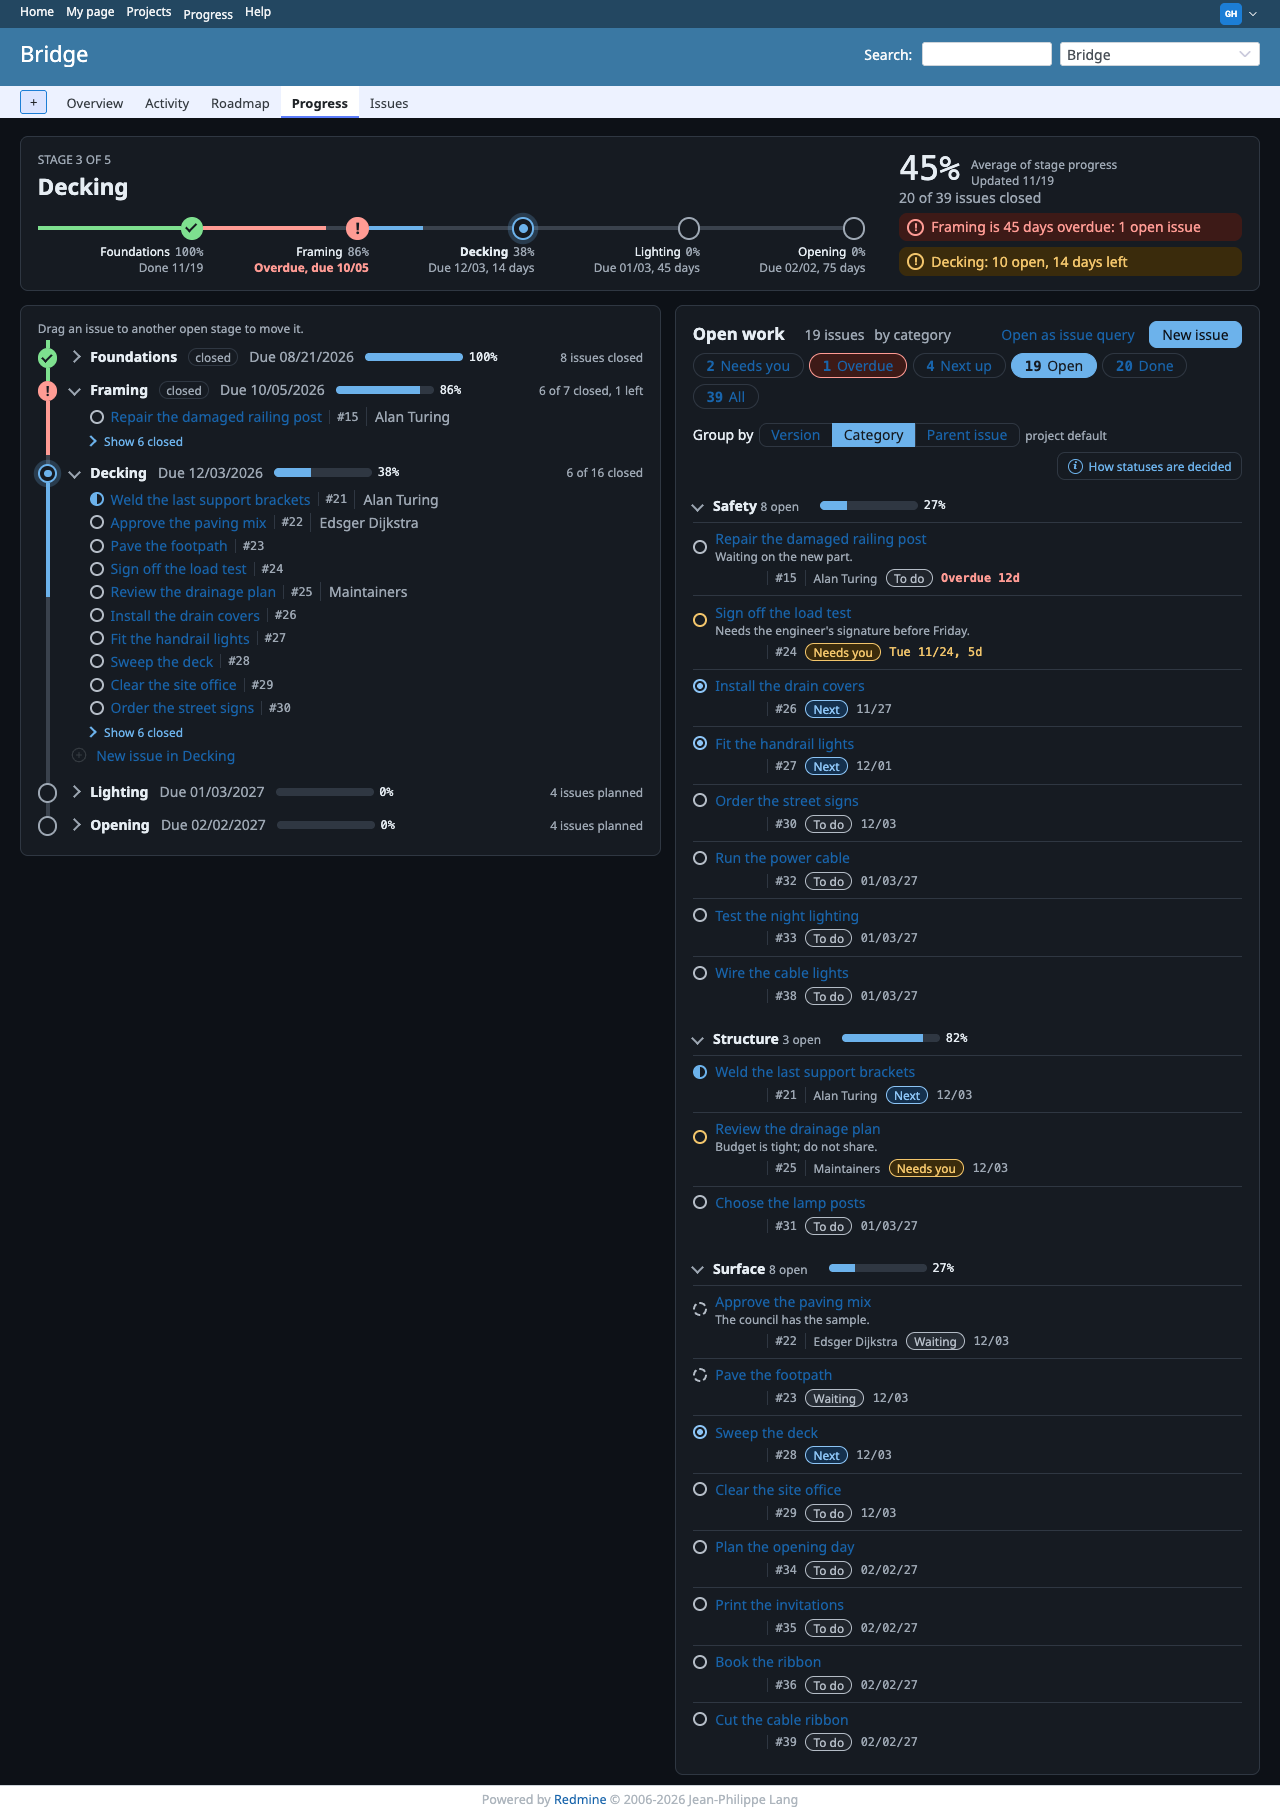
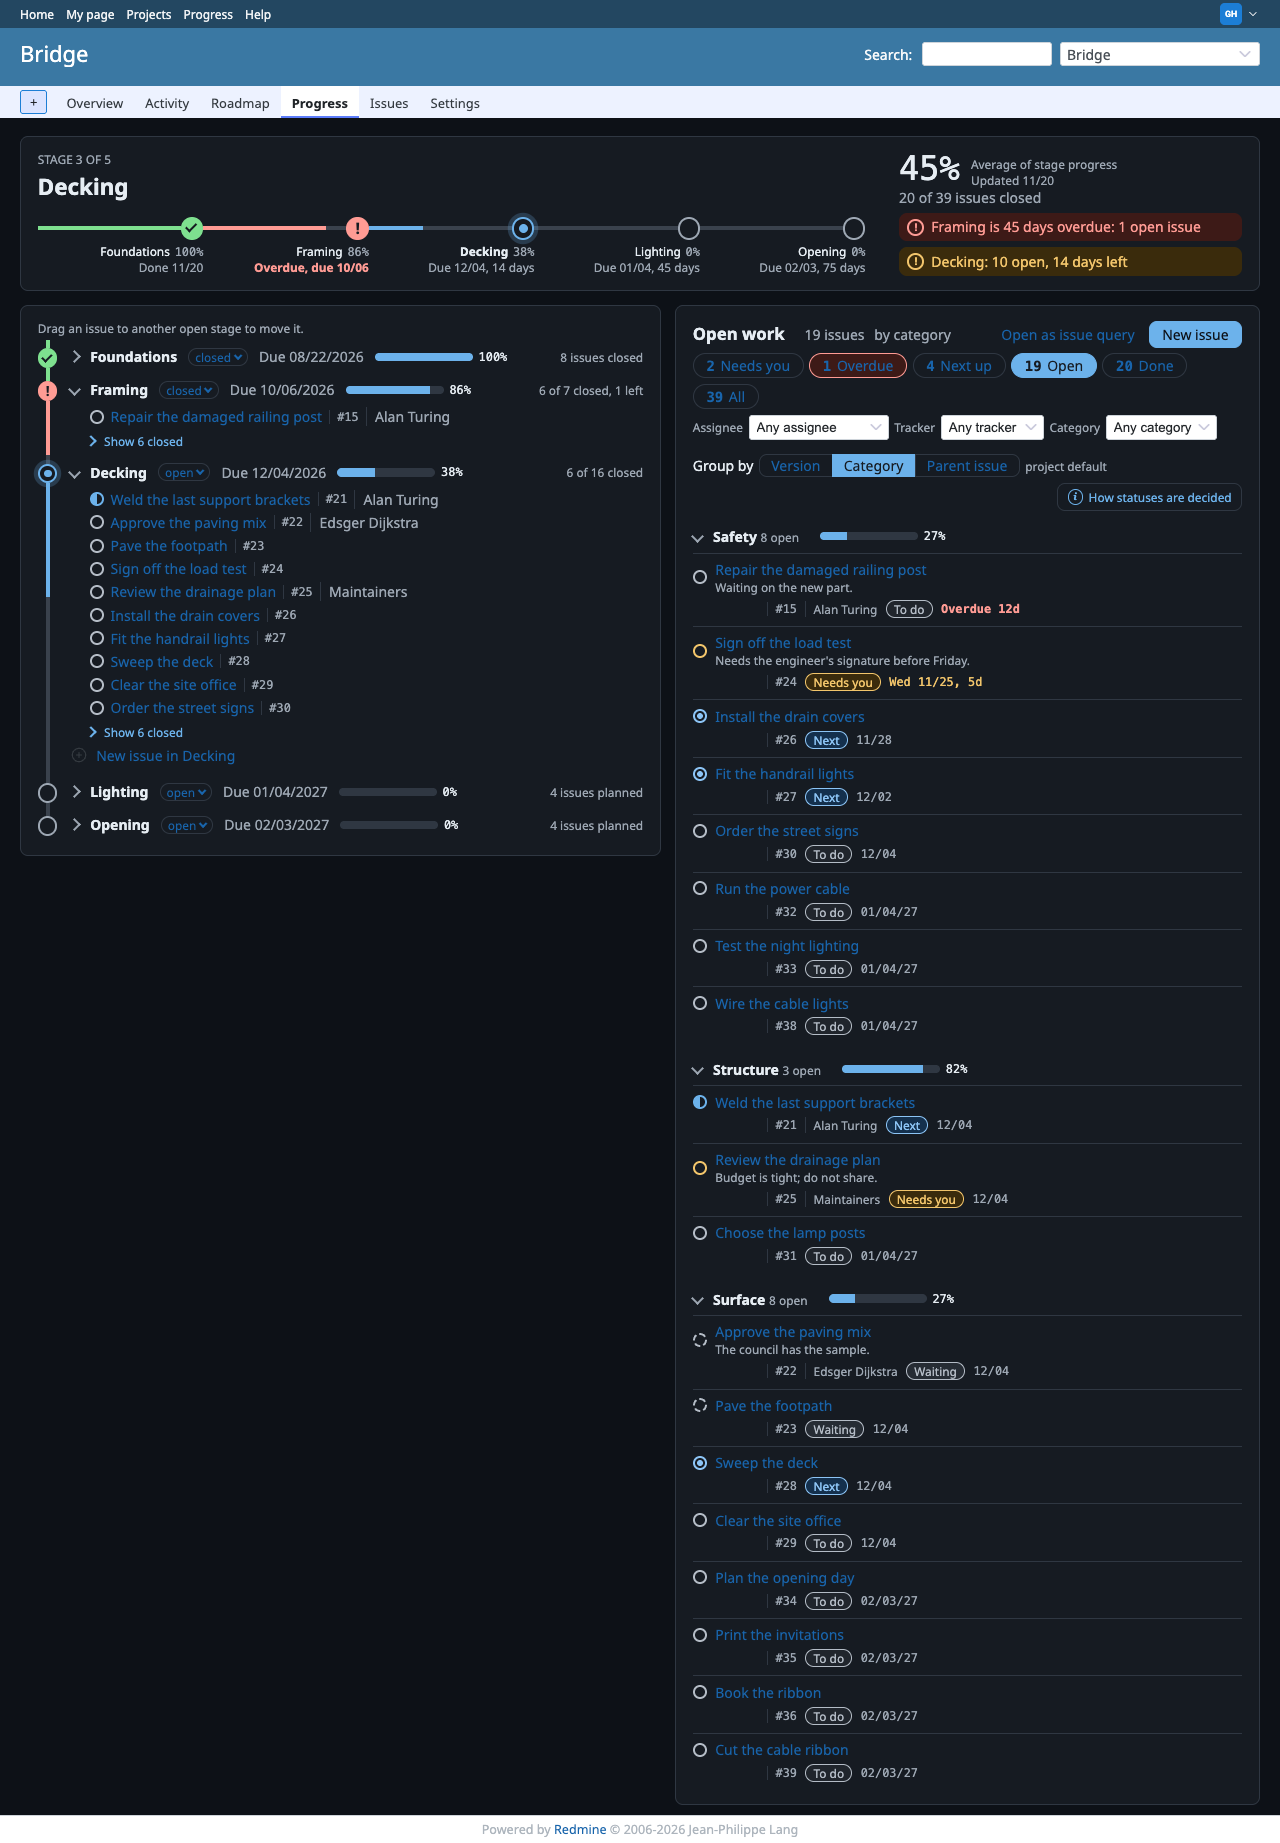
docs: retake the screenshots and add the busy project
Taken from a fresh demo after the 1.1.0 changes, with a new one of the 45-stage Lighthouse project.

diff --git a/README.md b/README.md
@@ -41,13 +41,17 @@ choice of grouping (version, category or parent issue). Each row carries a statu
 note.
 
 A busy project stays readable. Older finished stages fold into one row of the stage list ("38 finished stages", with their
-combined meter), and the top track draws them as one green mark and labels only the stages around the current one. Each
+combined meter), and the top track draws them as one mark of three dots and labels only the stages around the current one. Each
 checklist section lists its first 10 issues and a "Show more" link for the rest, which is a plain link that reloads the page
 without JavaScript. A long list opens section by section: with more than 8 sections only the first 5 list rows and the rest load
 theirs when opened (a plain `?open=<section>` link without JavaScript). Three selects beside the status pills narrow the checklist by assignee, tracker or category: they offer
 only values that occur among the issues the viewer can see, with counts, they change the pill counts with the list, and they
 leave the stage list and the top track as they are. They are not remembered. Long issue notes are cut at two lines with a
 "show note" link, and the overdue notice names at most three stages.
+
+![A project with 45 stages and 1000 issues](docs/screenshots/progress-busy.png)
+
+The demo's Lighthouse project, with 45 quarterly stages and 1000 made-up issues.
 
 ![The Needs you filter](docs/screenshots/progress-needs-you.png)
 
